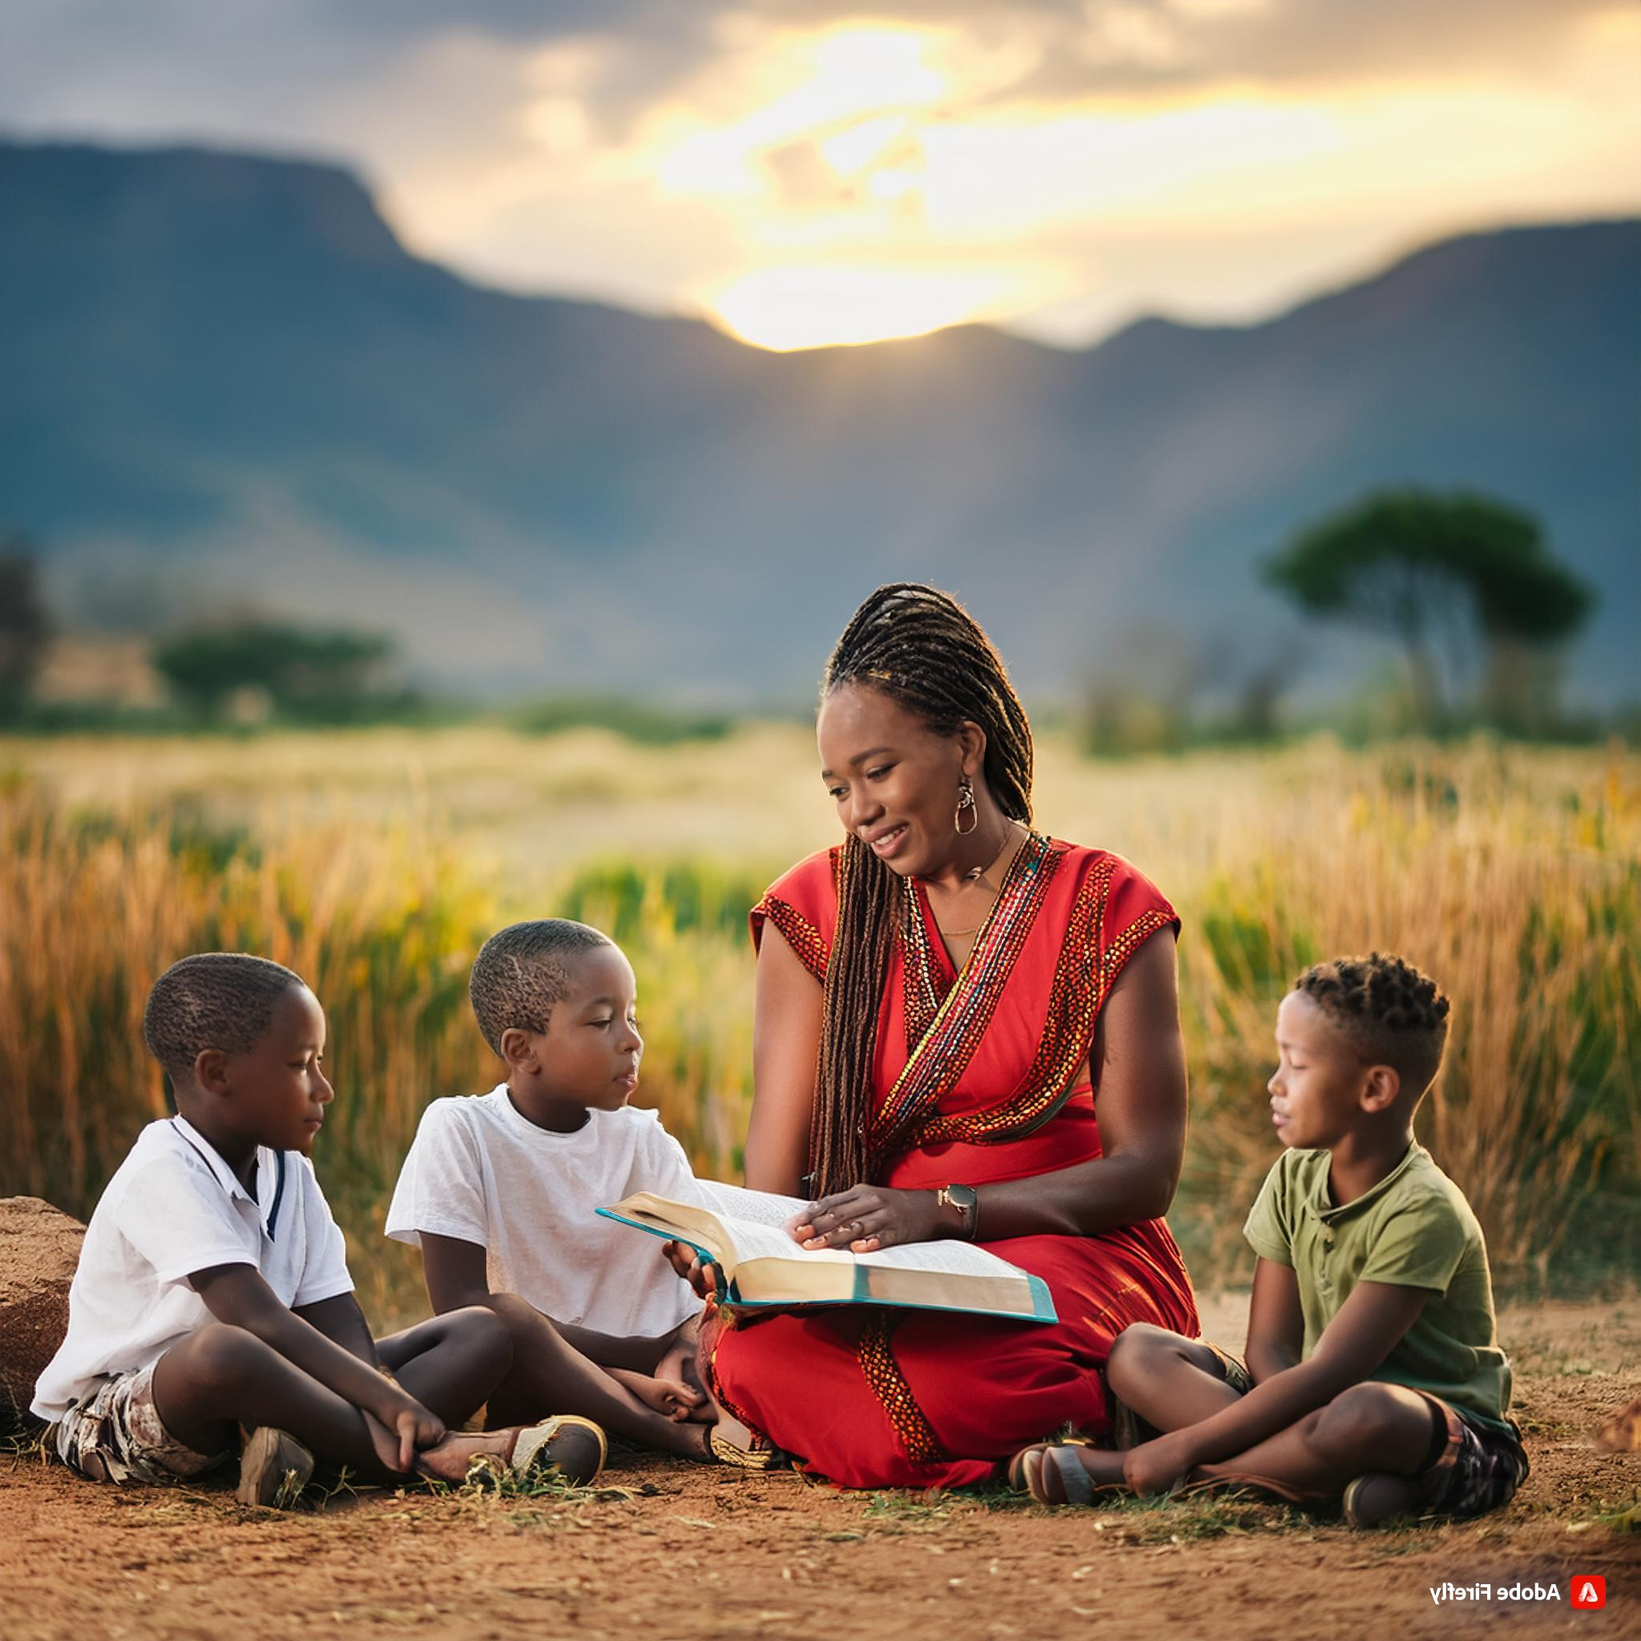
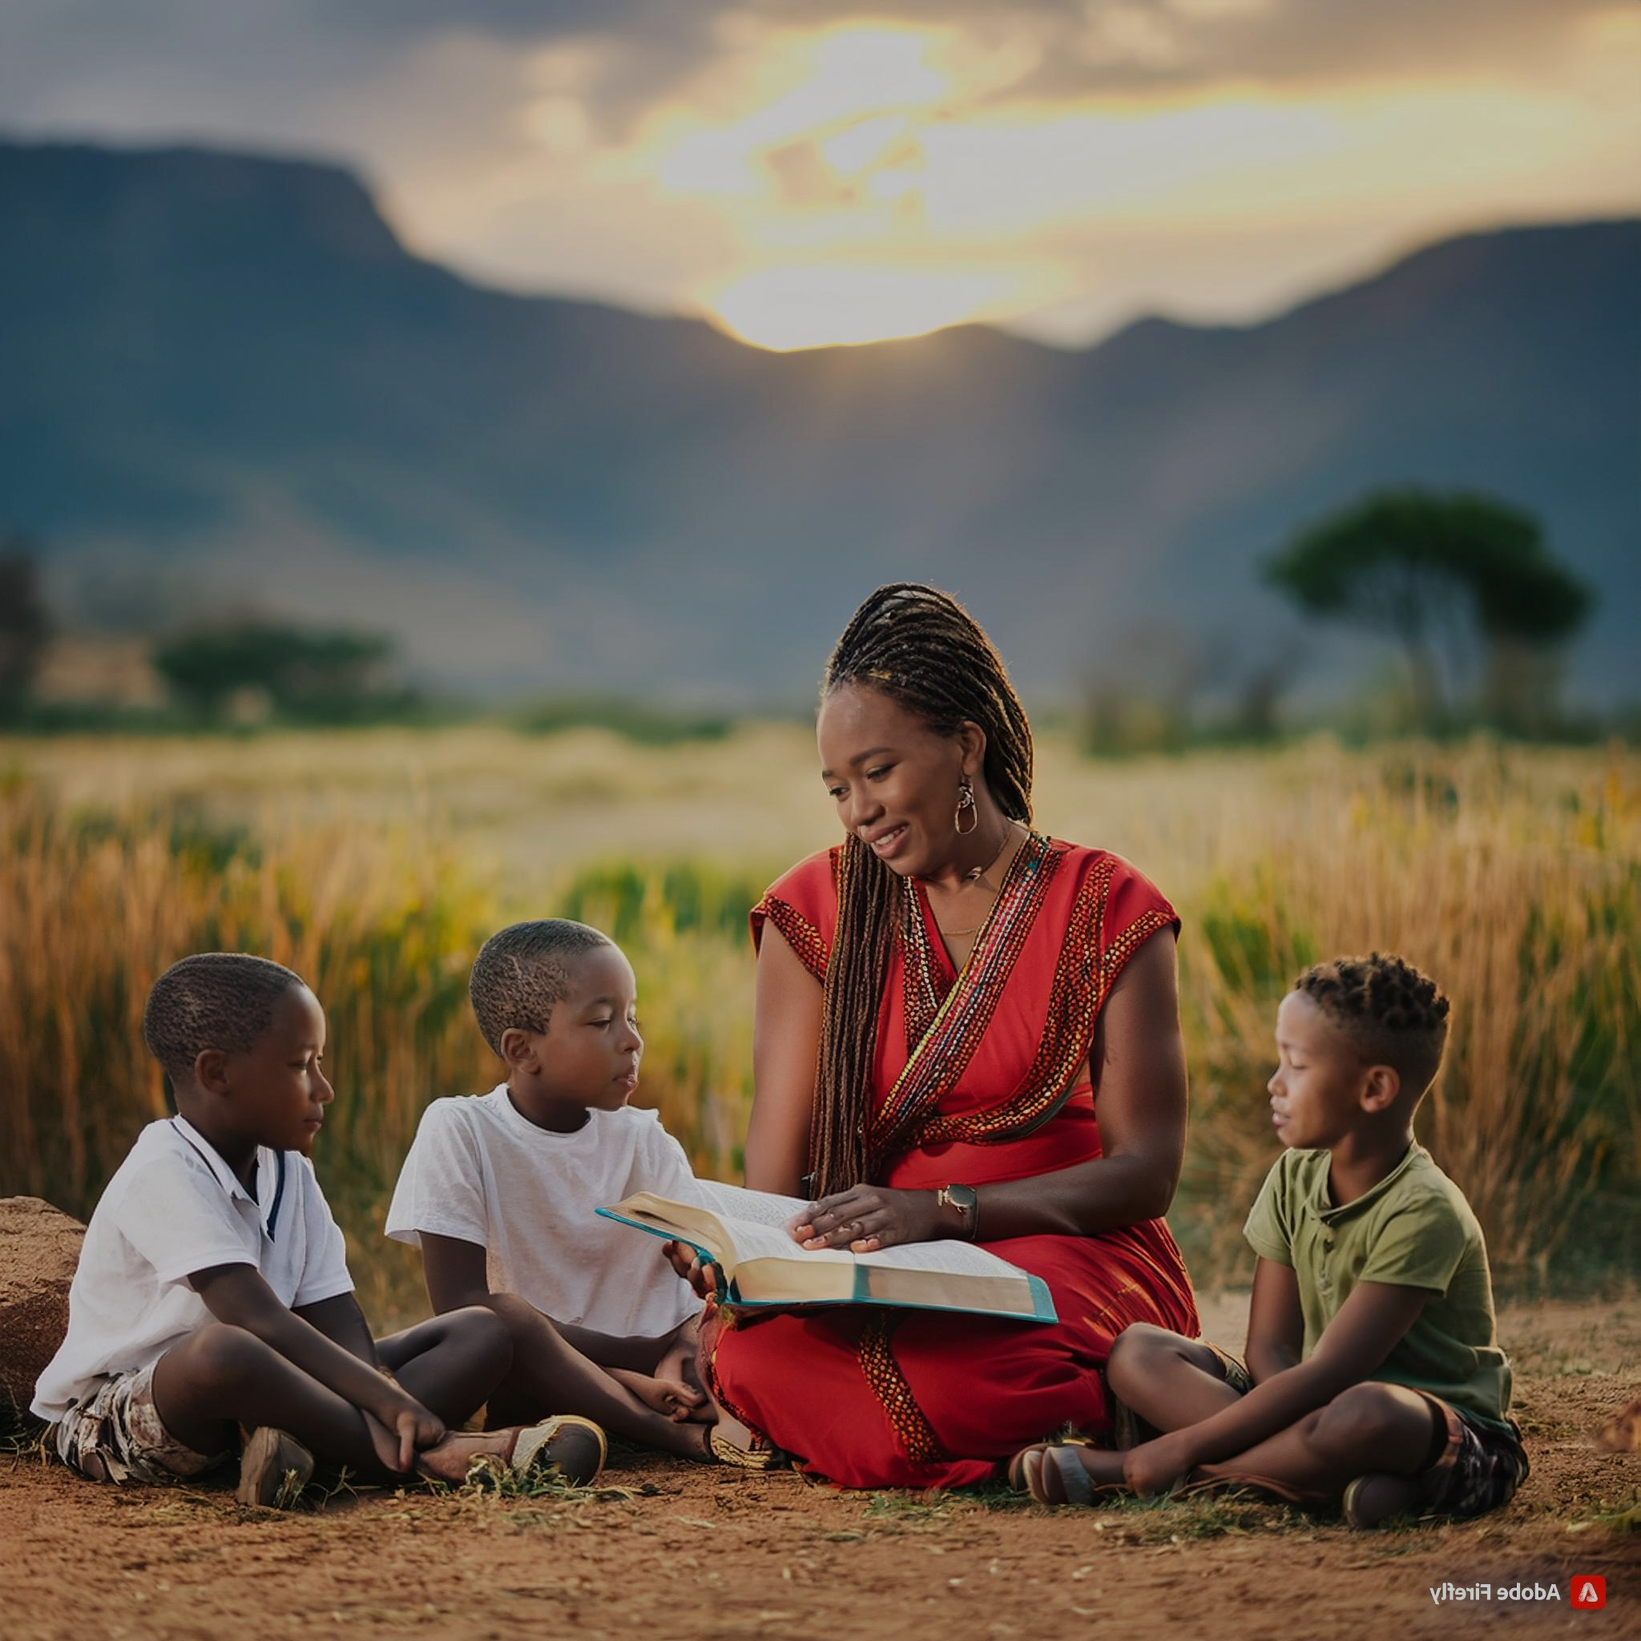
new setup layout front

diff --git a/resources/sass/accueil.scss b/resources/sass/accueil.scss
@@ -1,3 +1,5 @@
+@import "variables";
+
 .accueil {
     .jumbotron {
         position: absolute;
@@ -15,8 +17,6 @@
             color: white;
             h1 {
                 margin-bottom: 3rem;
-                font-family: "Joly Headline";
-                font-weight: bold;
             }
             position: relative;
             z-index: 2;
@@ -31,7 +31,7 @@
         width: 100%;
         height: 100%;
         background: linear-gradient(rgba(255, 247, 240, 1) 2%, rgba(255, 247, 240, 0.5) 17%, rgba(255, 247, 240, 0.0) 34%); /* Adjust colors and opacity as needed */
-        z-index: 1;
+        z-index: 2;
     }
 
     @media (max-width: 768px) {
@@ -39,6 +39,36 @@
             .container-fluid {
                 margin-left: 0 !important;
                 text-align: center;
+            }
+        }
+    }
+
+    .section-1 {
+        margin-top: calc($jumbotron-height - $header-height + 4rem);
+
+        .text {
+            h1 {
+                margin-bottom: 5rem;
+            }
+        }
+
+        @media (max-width: 768px) {
+            .text {
+                h1 {
+                    margin-bottom: 2rem;
+                }
+            }
+        }
+
+        .image {
+            overflow: hidden;
+            img {
+                border-radius: 10px;
+                top: 0;
+                left: 0;
+                width: 100%;
+                height: 100%;
+                object-fit: cover;
             }
         }
     }

diff --git a/resources/sass/app.scss b/resources/sass/app.scss
@@ -7,7 +7,7 @@
 body {
     font-family: "Roc Grotesk";
     font-size: 16px;
-    background-color: greenyellow;
+    background-color: $white-color;
     color: $black-color;
 }
 
@@ -34,4 +34,25 @@ body {
 .my-100 {
     margin-left: 100px;
     margin-right: 100px;
+}
+
+.grand-titre {
+    font-family: "Joly Headline";
+    font-weight: bold;
+    font-size: 64px;
+}
+
+.petit-titre {
+    font-family: "Joly Headline";
+    font-weight: bold;
+    font-size: 48px;
+}
+
+@media (max-width: 991px) {
+    .grand-titre {
+        font-size: 58px;
+    }
+    .petit-titre {
+        font-size: 42px;
+    }
 }

diff --git a/resources/sass/_variables.scss b/resources/sass/_variables.scss
@@ -1,3 +1,6 @@
 $primary-color: #DF253A;
 $black-color: #000814;
 $white-color: #FFF7F0;
+
+$jumbotron-height: 75vh;
+$header-height: 10vh;

diff --git a/resources/sass/header.scss b/resources/sass/header.scss
@@ -3,6 +3,7 @@
 header {
     position: relative;
     z-index: 1;
+    height: 10vh;
 }
 
 .nav-link {

diff --git a/resources/js/app.js b/resources/js/app.js
@@ -1,2 +1,3 @@
 import 'bootstrap';
 import './bootstrap';
+import Splide from '@splidejs/splide';

diff --git a/resources/views/accueil.blade.php b/resources/views/accueil.blade.php
@@ -10,25 +10,233 @@
 </head>
 <body>
 
-    {{--  header  --}}
-    <header>
-        <x-header />
-    </header>
+{{--  header  --}}
+<header>
+    <x-header/>
+</header>
 
-    <main class="accueil">
-        {{--  jumbotron  --}}
-        <section class="jumbotron">
-            <div class="container-fluid">
-                <div class="row">
-                    <div class="col-md-8 offset-md-2">
-                        <h1 class="display-4"><span class="bold-text">Participez</span> à notre mission d'évangélisation</h1>
-                        <a class="btn btn-primary btn-lg" href="#cta-link" role="button">Faites une différence aujourd'hui</a>
+<main class="accueil">
+    {{--  jumbotron  --}}
+    <section class="jumbotron">
+        <div class="container-fluid">
+            <div class="row">
+                <div class="col-md-8 offset-md-2">
+                    <h1 class="display-4 grand-titre"><span class="bold-text">Participez</span> à notre mission
+                        d'évangélisation</h1>
+                    <a class="btn btn-primary btn-lg" href="#cta-link" role="button">Faites une différence
+                        aujourd'hui</a>
+                </div>
+            </div>
+        </div>
+    </section>
+
+    <div class="container section-1 text-sm-start mb-5">
+        <div class="row gy-2">
+            <div class="col-md-6">
+                <h1 class="grand-titre">Notre projet d'évangélisation</h1>
+                <p class="mt-2 mt-xl-5">Lorem ipsum dolor sit amet consectetur adipiscing elit Ut et massa mi. Aliquam
+                    in hendrerit urna. Pellentesque sit amet sapien fringilla, mattis ligula consectetur, ultrices
+                    mauris. Maecenas vitae mattis tellus. Nullam quis imperdiet augue. Vestibulum auctor ornare leo, non
+                    suscipit magna interdum eu. Curabitur pellentesque nibh nibh, at maximus ante.</p>
+            </div>
+            <div class="col-md-5 offset-0 offset-md-1 text-center text-sm-center text-md-end flex-fill"
+                 style="transform: perspective(0px);">
+                <img    class="img-fluid w-100 h-auto"
+                       src="../images/section-1-image.jpg"
+                       style="border-radius: 10px;border-style: none;">
+            </div>
+        </div>
+    </div>
+    <div class="container mb-5">
+        <div class="row">
+            <div class="col-sm-8 col-md-5 col-lg-4 offset-md-1 offset-lg-1">
+                <h1 class="petit-titre">Il est important parce que</h1>
+            </div>
+            <div class="col-md-5 offset-md-6">
+                <p>Lorem ipsum dolor sit amet consectetur adipiscing elit Ut et massa mi. Aliquam in hendrerit urna.
+                    Pellentesque sit amet sapien fringilla, mattis ligula consectetur, ultrices mauris. Maecenas vitae
+                    mattis tellus. Nullam quis imperdiet augue. Vestibulum auctor ornare leo, non suscipit magna
+                    interdum eu. Curabitur pellentesque nibh nibh, at maximus ante.</p>
+            </div>
+        </div>
+    </div>
+    <div class="container mb-5">
+        <div class="row mb-4">
+            <div class="col-sm-6 col-md-5 col-lg-4 offset-md-1 offset-lg-1">
+                <h1 class="petit-titre">Les impactes</h1>
+            </div>
+        </div>
+        <div class="row gy-4 row-cols-1 row-cols-md-2 row-cols-xl-3">
+            <div class="col">
+                <div class="card">
+                    <div class="card-body p-4">
+                        <h4 class="card-title">Title</h4>
+                        <p class="card-text">Erat netus est hendrerit, nullam et quis ad cras porttitor iaculis.
+                            Bibendum vulputate cras aenean.</p>
+                    </div>
+                </div>
+            </div>
+            <div class="col">
+                <div class="card">
+                    <div class="card-body p-4">
+                        <h4 class="card-title">Title</h4>
+                        <p class="card-text">Erat netus est hendrerit, nullam et quis ad cras porttitor iaculis.
+                            Bibendum vulputate cras aenean.</p>
+                    </div>
+                </div>
+            </div>
+            <div class="col">
+                <div class="card">
+                    <div class="card-body p-4">
+                        <h4 class="card-title">Title</h4>
+                        <p class="card-text">Erat netus est hendrerit, nullam et quis ad cras porttitor iaculis.
+                            Bibendum vulputate cras aenean.</p>
+                    </div>
+                </div>
+            </div>
+        </div>
+    </div>
+    <div class="container mb-5">
+        <div class="row">
+            <div class="col">
+                <h1 class="grand-titre">Nos témoignages</h1>
+            </div>
+        </div>
+        <div class="row gy-4 row-cols-1 row-cols-sm-2 row-cols-lg-3 mt-2 mt-xl-5">
+            <div class="col">
+                <div>
+                    <p class="bg-body-tertiary border rounded border-0 p-4">Nisi sit justo faucibus nec ornare amet,
+                        tortor torquent. Blandit class dapibus, aliquet morbi.</p>
+                    <div class="d-flex"><img class="rounded-circle flex-shrink-0 me-3 fit-cover" width="50" height="50"
+                                             src="https://cdn.bootstrapstudio.io/placeholders/1400x800.png">
+                        <div>
+                            <p class="fw-bold text-primary mb-0">John Smith</p>
+                            <p class="text-muted mb-0">Erat netus</p>
+                        </div>
+                    </div>
+                </div>
+            </div>
+            <div class="col">
+                <div>
+                    <p class="bg-body-tertiary border rounded border-0 p-4">Nisi sit justo faucibus nec ornare amet,
+                        tortor torquent. Blandit class dapibus, aliquet morbi.</p>
+                    <div class="d-flex"><img class="rounded-circle flex-shrink-0 me-3 fit-cover" width="50" height="50"
+                                             src="https://cdn.bootstrapstudio.io/placeholders/1400x800.png">
+                        <div>
+                            <p class="fw-bold text-primary mb-0">John Smith</p>
+                            <p class="text-muted mb-0">Erat netus</p>
+                        </div>
+                    </div>
+                </div>
+            </div>
+            <div class="col">
+                <div>
+                    <p class="bg-body-tertiary border rounded border-0 p-4">Nisi sit justo faucibus nec ornare amet,
+                        tortor torquent. Blandit class dapibus, aliquet morbi.</p>
+                    <div class="d-flex"><img class="rounded-circle flex-shrink-0 me-3 fit-cover" width="50" height="50"
+                                             src="https://cdn.bootstrapstudio.io/placeholders/1400x800.png">
+                        <div>
+                            <p class="fw-bold text-primary mb-0">John Smith</p>
+                            <p class="text-muted mb-0">Erat netus</p>
+                        </div>
+                    </div>
+                </div>
+            </div>
+        </div>
+    </div>
+    <div class="container mb-5">
+        <section class="py-4 py-xl-5">
+            <div class="container h-100">
+                <div class="text-white border rounded border-0 p-4 py-5">
+                    <div class="row h-100">
+                        <div
+                            class="col-md-10 col-xl-8 text-center d-flex d-sm-flex d-md-flex justify-content-center align-items-center mx-auto justify-content-md-start align-items-md-center justify-content-xl-center">
+                            <div>
+                                <h1 class="fw-medium text-white mb-3">
+                                    Votre <span class="fw-bold">générosité</span> fait la différence.
+                                </h1>
+                                <button class="btn btn-light fs-5 py-2 px-4" type="button">Faire un don maintenant</button>
+                            </div>
+                        </div>
                     </div>
                 </div>
             </div>
         </section>
-    </main>
+    </div>
+</main>
 
+<footer>
+    <div class="container py-4 py-lg-5">
+        <div class="row justify-content-center">
+            <div class="col-sm-4 col-md-3 text-center text-lg-start d-flex flex-column item">
+                <h3 class="fs-6">Services</h3>
+                <ul class="list-unstyled">
+                    <li><a class="link-secondary" href="#">Web design</a></li>
+                    <li><a class="link-secondary" href="#">Development</a></li>
+                    <li><a class="link-secondary" href="#">Hosting</a></li>
+                </ul>
+            </div>
+            <div class="col-sm-4 col-md-3 text-center text-lg-start d-flex flex-column item">
+                <h3 class="fs-6">About</h3>
+                <ul class="list-unstyled">
+                    <li><a class="link-secondary" href="#">Company</a></li>
+                    <li><a class="link-secondary" href="#">Team</a></li>
+                    <li><a class="link-secondary" href="#">Legacy</a></li>
+                </ul>
+            </div>
+            <div class="col-sm-4 col-md-3 text-center text-lg-start d-flex flex-column item">
+                <h3 class="fs-6">Careers</h3>
+                <ul class="list-unstyled">
+                    <li><a class="link-secondary" href="#">Job openings</a></li>
+                    <li><a class="link-secondary" href="#">Employee success</a></li>
+                    <li><a class="link-secondary" href="#">Benefits</a></li>
+                </ul>
+            </div>
+            <div
+                class="col-lg-3 text-center text-lg-start d-flex flex-column align-items-center order-first align-items-lg-start order-lg-last item social">
+                <div class="fw-bold d-flex align-items-center mb-2"><span
+                        class="bs-icon-sm bs-icon-rounded bs-icon-primary d-flex justify-content-center align-items-center bs-icon me-2"><svg
+                            xmlns="http://www.w3.org/2000/svg" width="1em" height="1em" fill="currentColor"
+                            viewBox="0 0 16 16" class="bi bi-bezier">
+                            <path fill-rule="evenodd"
+                                  d="M0 10.5A1.5 1.5 0 0 1 1.5 9h1A1.5 1.5 0 0 1 4 10.5v1A1.5 1.5 0 0 1 2.5 13h-1A1.5 1.5 0 0 1 0 11.5zm1.5-.5a.5.5 0 0 0-.5.5v1a.5.5 0 0 0 .5.5h1a.5.5 0 0 0 .5-.5v-1a.5.5 0 0 0-.5-.5zm10.5.5A1.5 1.5 0 0 1 13.5 9h1a1.5 1.5 0 0 1 1.5 1.5v1a1.5 1.5 0 0 1-1.5 1.5h-1a1.5 1.5 0 0 1-1.5-1.5zm1.5-.5a.5.5 0 0 0-.5.5v1a.5.5 0 0 0 .5.5h1a.5.5 0 0 0 .5-.5v-1a.5.5 0 0 0-.5-.5zM6 4.5A1.5 1.5 0 0 1 7.5 3h1A1.5 1.5 0 0 1 10 4.5v1A1.5 1.5 0 0 1 8.5 7h-1A1.5 1.5 0 0 1 6 5.5zM7.5 4a.5.5 0 0 0-.5.5v1a.5.5 0 0 0 .5.5h1a.5.5 0 0 0 .5-.5v-1a.5.5 0 0 0-.5-.5z"></path>
+                            <path
+                                d="M6 4.5H1.866a1 1 0 1 0 0 1h2.668A6.517 6.517 0 0 0 1.814 9H2.5c.123 0 .244.015.358.043a5.517 5.517 0 0 1 3.185-3.185A1.503 1.503 0 0 1 6 5.5zm3.957 1.358A1.5 1.5 0 0 0 10 5.5v-1h4.134a1 1 0 1 1 0 1h-2.668a6.517 6.517 0 0 1 2.72 3.5H13.5c-.123 0-.243.015-.358.043a5.517 5.517 0 0 0-3.185-3.185z"></path>
+                        </svg></span><span>Brand</span></div>
+                <p class="text-muted copyright">Sem eleifend donec molestie, integer quisque orci aliquam.</p>
+            </div>
+        </div>
+        <hr>
+        <div class="d-flex justify-content-between align-items-center pt-3">
+            <p class="text-muted mb-0">Copyright © 2024 Brand</p>
+            <ul class="list-inline mb-0">
+                <li class="list-inline-item">
+                    <svg xmlns="http://www.w3.org/2000/svg" width="1em" height="1em" fill="currentColor"
+                         viewBox="0 0 16 16" class="bi bi-facebook">
+                        <path
+                            d="M16 8.049c0-4.446-3.582-8.05-8-8.05C3.58 0-.002 3.603-.002 8.05c0 4.017 2.926 7.347 6.75 7.951v-5.625h-2.03V8.05H6.75V6.275c0-2.017 1.195-3.131 3.022-3.131.876 0 1.791.157 1.791.157v1.98h-1.009c-.993 0-1.303.621-1.303 1.258v1.51h2.218l-.354 2.326H9.25V16c3.824-.604 6.75-3.934 6.75-7.951"></path>
+                    </svg>
+                </li>
+                <li class="list-inline-item">
+                    <svg xmlns="http://www.w3.org/2000/svg" width="1em" height="1em" fill="currentColor"
+                         viewBox="0 0 16 16" class="bi bi-twitter">
+                        <path
+                            d="M5.026 15c6.038 0 9.341-5.003 9.341-9.334 0-.14 0-.282-.006-.422A6.685 6.685 0 0 0 16 3.542a6.658 6.658 0 0 1-1.889.518 3.301 3.301 0 0 0 1.447-1.817 6.533 6.533 0 0 1-2.087.793A3.286 3.286 0 0 0 7.875 6.03a9.325 9.325 0 0 1-6.767-3.429 3.289 3.289 0 0 0 1.018 4.382A3.323 3.323 0 0 1 .64 6.575v.045a3.288 3.288 0 0 0 2.632 3.218 3.203 3.203 0 0 1-.865.115 3.23 3.23 0 0 1-.614-.057 3.283 3.283 0 0 0 3.067 2.277A6.588 6.588 0 0 1 .78 13.58a6.32 6.32 0 0 1-.78-.045A9.344 9.344 0 0 0 5.026 15"></path>
+                    </svg>
+                </li>
+                <li class="list-inline-item">
+                    <svg xmlns="http://www.w3.org/2000/svg" width="1em" height="1em" fill="currentColor"
+                         viewBox="0 0 16 16" class="bi bi-instagram">
+                        <path
+                            d="M8 0C5.829 0 5.556.01 4.703.048 3.85.088 3.269.222 2.76.42a3.917 3.917 0 0 0-1.417.923A3.927 3.927 0 0 0 .42 2.76C.222 3.268.087 3.85.048 4.7.01 5.555 0 5.827 0 8.001c0 2.172.01 2.444.048 3.297.04.852.174 1.433.372 1.942.205.526.478.972.923 1.417.444.445.89.719 1.416.923.51.198 1.09.333 1.942.372C5.555 15.99 5.827 16 8 16s2.444-.01 3.298-.048c.851-.04 1.434-.174 1.943-.372a3.916 3.916 0 0 0 1.416-.923c.445-.445.718-.891.923-1.417.197-.509.332-1.09.372-1.942C15.99 10.445 16 10.173 16 8s-.01-2.445-.048-3.299c-.04-.851-.175-1.433-.372-1.941a3.926 3.926 0 0 0-.923-1.417A3.911 3.911 0 0 0 13.24.42c-.51-.198-1.092-.333-1.943-.372C10.443.01 10.172 0 7.998 0h.003zm-.717 1.442h.718c2.136 0 2.389.007 3.232.046.78.035 1.204.166 1.486.275.373.145.64.319.92.599.28.28.453.546.598.92.11.281.24.705.275 1.485.039.843.047 1.096.047 3.231s-.008 2.389-.047 3.232c-.035.78-.166 1.203-.275 1.485a2.47 2.47 0 0 1-.599.919c-.28.28-.546.453-.92.598-.28.11-.704.24-1.485.276-.843.038-1.096.047-3.232.047s-2.39-.009-3.233-.047c-.78-.036-1.203-.166-1.485-.276a2.478 2.478 0 0 1-.92-.598 2.48 2.48 0 0 1-.6-.92c-.109-.281-.24-.705-.275-1.485-.038-.843-.046-1.096-.046-3.233 0-2.136.008-2.388.046-3.231.036-.78.166-1.204.276-1.486.145-.373.319-.64.599-.92.28-.28.546-.453.92-.598.282-.11.705-.24 1.485-.276.738-.034 1.024-.044 2.515-.045v.002zm4.988 1.328a.96.96 0 1 0 0 1.92.96.96 0 0 0 0-1.92zm-4.27 1.122a4.109 4.109 0 1 0 0 8.217 4.109 4.109 0 0 0 0-8.217zm0 1.441a2.667 2.667 0 1 1 0 5.334 2.667 2.667 0 0 1 0-5.334"></path>
+                    </svg>
+                </li>
+            </ul>
+        </div>
+    </div>
+</footer>
+
+<script src="assets/bootstrap/js/bootstrap.min.js"></script>
 
 </body>
 </html>
